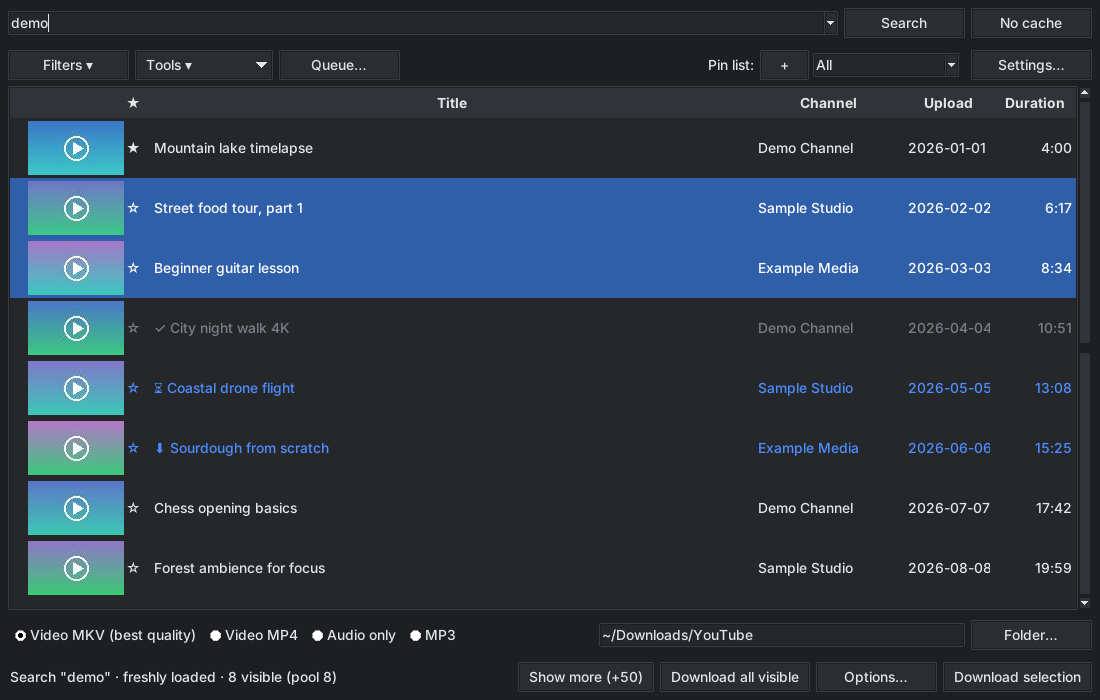
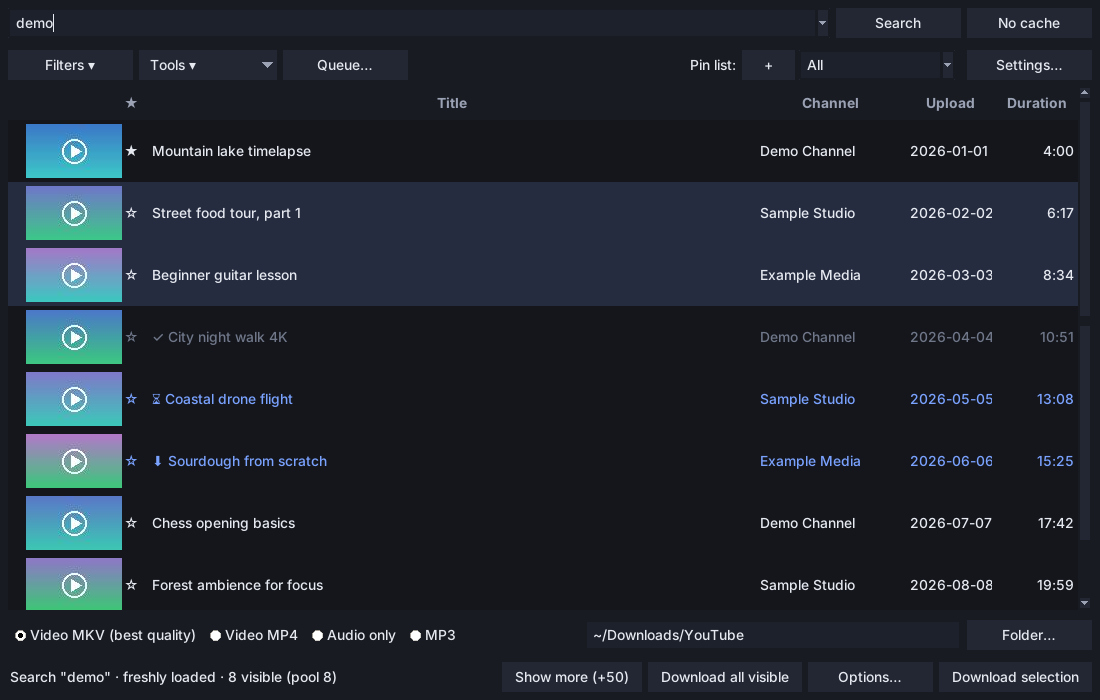
Neues dunkles Farbschema und flachere Optik

diff --git a/ytpick/theme.py b/ytpick/theme.py
@@ -35,7 +35,7 @@ class ThemeMixin:
             pass
 
     def row_height(self):
-        return THUMB_H + 6 if self.show_thumbs.get() else 22
+        return THUMB_H + 8 if self.show_thumbs.get() else 28
 
     def apply_thumbs(self):
         on = self.show_thumbs.get()
@@ -89,13 +89,13 @@ class ThemeMixin:
     def style_text(self, widget):
         p = self.pal
         widget.configure(bg=p["field"], fg=p["fg"], selectbackground=p["sel"],
-                         selectforeground="#ffffff", relief="flat", highlightthickness=0,
+                         selectforeground=p["selfg"], relief="flat", highlightthickness=0,
                          borderwidth=0)
         if isinstance(widget, tk.Text):
             widget.configure(insertbackground=p["fg"])
 
     def theme_window(self, win):
-        win.configure(bg=self.pal["bg"])
+        win.configure(bg=self.pal["bar"])
         set_titlebar(win, self.dark.get())
 
     def apply_theme(self):
@@ -103,54 +103,63 @@ class ThemeMixin:
         self.pal = p
         st = ttk.Style(self)
         st.theme_use("clam")
-        self.configure(bg=p["bg"])
-        st.configure(".", background=p["bg"], foreground=p["fg"], fieldbackground=p["field"],
-                     bordercolor=p["border"], lightcolor=p["bg"], darkcolor=p["bg"],
-                     troughcolor=p["panel"], focuscolor=p["bg"], insertcolor=p["fg"])
+        self.configure(bg=p["bar"])
+        st.configure(".", background=p["bar"], foreground=p["fg"], fieldbackground=p["field"],
+                     bordercolor=p["border"], lightcolor=p["bar"], darkcolor=p["bar"],
+                     troughcolor=p["bar"], focuscolor=p["bar"], insertcolor=p["fg"],
+                     relief="flat")
         st.configure("TButton", background=p["panel"], foreground=p["fg"],
-                     padding=(8, 3), borderwidth=1)
-        st.map("TButton", background=[("active", p["sel"]), ("pressed", p["sel"])],
-               foreground=[("disabled", p["muted"]), ("active", "#ffffff")])
+                     padding=(12, 5), borderwidth=0, relief="flat")
+        st.map("TButton", background=[("pressed", p["accent"]), ("active", p["hover"])],
+               foreground=[("disabled", p["muted"]), ("pressed", p["bg"])])
         for w in ("TCheckbutton", "TRadiobutton"):
-            st.configure(w, background=p["bg"], foreground=p["fg"])
-            st.map(w, background=[("active", p["bg"])],
+            st.configure(w, background=p["bar"], foreground=p["fg"])
+            st.map(w, background=[("active", p["bar"])],
                    indicatorcolor=[("selected", p["accent"]), ("!selected", p["field"])])
-        st.configure("TEntry", fieldbackground=p["field"], foreground=p["fg"], insertcolor=p["fg"])
+        st.configure("TEntry", fieldbackground=p["field"], foreground=p["fg"],
+                     insertcolor=p["fg"], padding=(6, 4), borderwidth=0)
         st.configure("TCombobox", fieldbackground=p["field"], background=p["panel"],
-                     foreground=p["fg"], arrowcolor=p["fg"],
+                     foreground=p["fg"], arrowcolor=p["muted"], padding=(6, 4), borderwidth=0,
                      selectbackground=p["field"], selectforeground=p["fg"])
         st.map("TCombobox", fieldbackground=[("readonly", p["field"])],
                foreground=[("readonly", p["fg"])],
                selectbackground=[("readonly", p["field"])],
-               selectforeground=[("readonly", p["fg"])])
+               selectforeground=[("readonly", p["fg"])],
+               background=[("active", p["hover"])])
         self.option_add("*TCombobox*Listbox.background", p["field"])
         self.option_add("*TCombobox*Listbox.foreground", p["fg"])
         self.option_add("*TCombobox*Listbox.selectBackground", p["sel"])
-        self.option_add("*TCombobox*Listbox.selectForeground", "#ffffff")
-        st.configure("Treeview", background=p["field"], fieldbackground=p["field"],
-                     foreground=p["fg"], rowheight=self.row_height(), borderwidth=0)
+        self.option_add("*TCombobox*Listbox.selectForeground", p["selfg"])
+        st.configure("Treeview", background=p["bg"], fieldbackground=p["bg"],
+                     foreground=p["fg"], rowheight=self.row_height(), borderwidth=0,
+                     relief="flat")
+        st.layout("Treeview", [("Treeview.treearea", {"sticky": "nswe"})])
         st.map("Treeview", background=[("selected", p["sel"])],
-               foreground=[("selected", "#ffffff")])
-        st.configure("Treeview.Heading", background=p["header"], foreground=p["fg"],
-                     relief="flat", padding=(6, 4))
-        st.map("Treeview.Heading", background=[("active", p["sel"])])
-        st.configure("TNotebook", background=p["bg"], borderwidth=0)
-        st.configure("TNotebook.Tab", background=p["panel"], foreground=p["fg"], padding=(12, 5))
+               foreground=[("selected", p["selfg"])])
+        st.configure("Treeview.Heading", background=p["bar"], foreground=p["muted"],
+                     relief="flat", borderwidth=0, padding=(8, 8))
+        st.map("Treeview.Heading", background=[("active", p["hover"])],
+               foreground=[("active", p["fg"])])
+        st.configure("TNotebook", background=p["bar"], borderwidth=0)
+        st.configure("TNotebook.Tab", background=p["bar"], foreground=p["muted"],
+                     padding=(14, 7), borderwidth=0)
         st.map("TNotebook.Tab", background=[("selected", p["sel"])],
-               foreground=[("selected", "#ffffff")])
-        st.configure("TScrollbar", background=p["header"], troughcolor=p["bg"],
-                     arrowcolor=p["fg"], bordercolor=p["bg"])
-        st.map("TScrollbar", background=[("active", p["sel"])])
+               foreground=[("selected", p["selfg"])])
+        st.configure("TScrollbar", background=p["panel"], troughcolor=p["bar"],
+                     arrowcolor=p["muted"], bordercolor=p["bar"], borderwidth=0)
+        st.map("TScrollbar", background=[("active", p["hover"])])
+        st.configure("TProgressbar", background=p["accent"], troughcolor=p["panel"],
+                     borderwidth=0)
 
         self.tree.tag_configure("downloaded", foreground=p["dl"])
         self.tree.tag_configure("hidden", foreground=p["hid"])
         self.tree.tag_configure("queued", foreground=p["accent"])
         for menu in (self.ctx, self.tool_menu):
-            menu.configure(bg=p["panel"], fg=p["fg"], activebackground=p["sel"],
-                           activeforeground="#ffffff", bd=0)
-        st.configure("TMenubutton", background=p["panel"], foreground=p["fg"], arrowcolor=p["fg"],
-                     padding=(8, 3))
-        st.map("TMenubutton", background=[("active", p["sel"])], foreground=[("active", "#ffffff")])
+            menu.configure(bg=p["panel"], fg=p["fg"], activebackground=p["hover"],
+                           activeforeground=p["fg"], bd=0)
+        st.configure("TMenubutton", background=p["panel"], foreground=p["fg"],
+                     arrowcolor=p["muted"], padding=(10, 5), borderwidth=0)
+        st.map("TMenubutton", background=[("active", p["hover"])])
         set_titlebar(self, self.dark.get())
         if self.bl_win and self.bl_win.winfo_exists():
             self.theme_window(self.bl_win)

diff --git a/ytpick/constants.py b/ytpick/constants.py
@@ -67,11 +67,16 @@ COLUMN_LABELS = {
 LOCKED_COLUMNS = {"titel"}
 DEFAULT_VISIBLE = ["pin", "titel", "kanal", "datum", "dauer"]
 
-DARK = {"bg": "#1e1f22", "panel": "#2b2d31", "field": "#25272b", "header": "#313338",
-        "fg": "#e3e5e8", "muted": "#9aa0a6", "sel": "#2f5fa8", "accent": "#4c8dff",
-        "border": "#3a3c41", "dl": "#7a7f87", "hid": "#5c6168", "ok": "#5fd37c", "bad": "#ff6b6b"}
-LIGHT = {"bg": "#f3f3f3", "panel": "#e6e6e6", "field": "#ffffff", "header": "#e1e1e1",
-         "fg": "#1b1b1b", "muted": "#666666", "sel": "#3b82f6", "accent": "#2563eb",
-         "border": "#c4c4c4", "dl": "#8a8a8a", "hid": "#b5b5b5", "ok": "#1a8f3c", "bad": "#c62828"}
+# Dunkles Schema "Kommandozentrale": ruhige, leicht bläuliche Flächen, ein Akzent.
+# "bg" ist die Fläche der Tabelle und des Fensters, "bar" die der Leisten,
+# Rahmen sind unsichtbar (gleiche Farbe wie die Fläche).
+DARK = {"bg": "#14161c", "bar": "#181b22", "panel": "#222733", "field": "#1d212b",
+        "header": "#181b22", "fg": "#e6e9f0", "muted": "#9aa2b4", "sel": "#252c40",
+        "selfg": "#e6e9f0", "hover": "#2a3040", "accent": "#7aa2ff", "border": "#181b22",
+        "dl": "#6f7789", "hid": "#565d6e", "ok": "#5fd37c", "bad": "#ff6b6b"}
+LIGHT = {"bg": "#ffffff", "bar": "#f3f3f3", "panel": "#e6e6e6", "field": "#ffffff",
+         "header": "#f3f3f3", "fg": "#1b1b1b", "muted": "#666666", "sel": "#dbe7fd",
+         "selfg": "#1b1b1b", "hover": "#d6d6d6", "accent": "#2563eb", "border": "#f3f3f3",
+         "dl": "#8a8a8a", "hid": "#b5b5b5", "ok": "#1a8f3c", "bad": "#c62828"}
 VIDEO_MODES = ("mkv", "mp4")
 MUSIC_MODES = ("mp3", "audio")

diff --git a/CHANGELOG.md b/CHANGELOG.md
@@ -7,6 +7,7 @@ Das Format orientiert sich an [Keep a Changelog](https://keepachangelog.com/de/1
 
 ### Geändert
 
+- Neues dunkles Farbschema „Kommandozentrale“: ruhige, leicht bläuliche Flächen mit einem hellblauen Akzent, flache Buttons und Eingabefelder ohne Rahmen, höhere Zeilen, gedämpfte Tabellenköpfe; das helle Schema bekommt dieselbe flache Optik
 - Quellcode in das Paket `ytpick/` aufgeteilt (Konstanten, Übersetzungen, Hilfsfunktionen, yt-dlp-Teil und die Fenster-Teile als eigene Module); Start über `ytpick_gui.py`, `python -m ytpick` oder den Befehl `ytpick`, Verhalten unverändert
 - README: ausführlicherer Hinweis zur Nutzung (privater Gebrauch, Verantwortung, Nutzungsbedingungen, Cookies)
 
